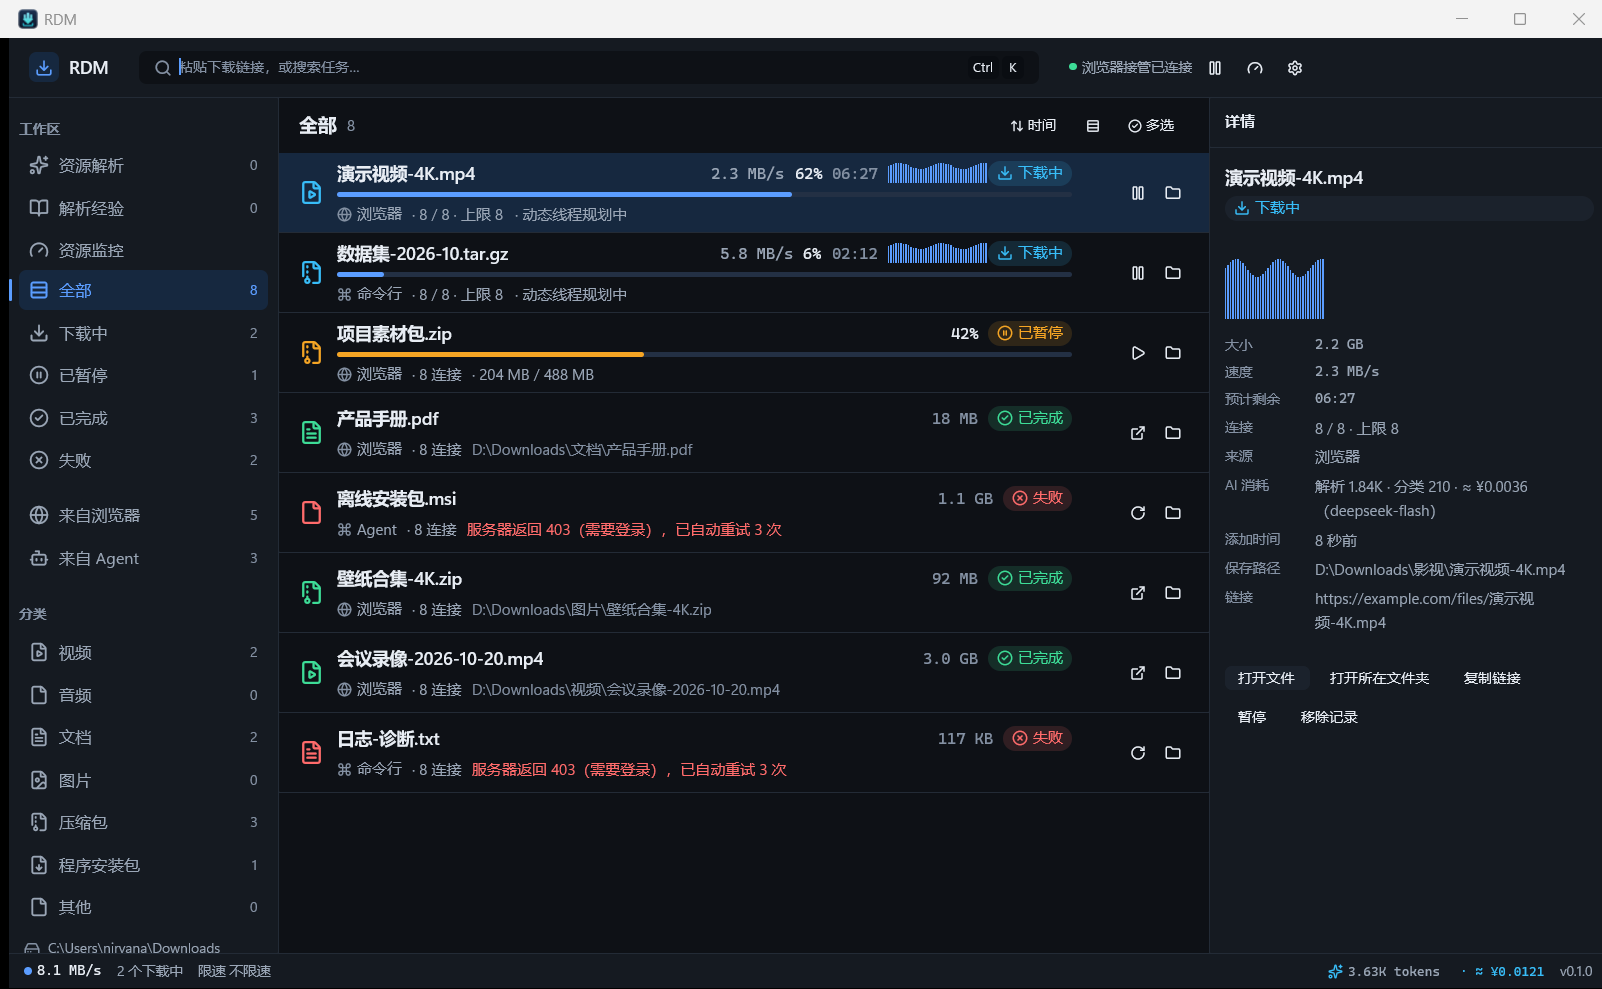
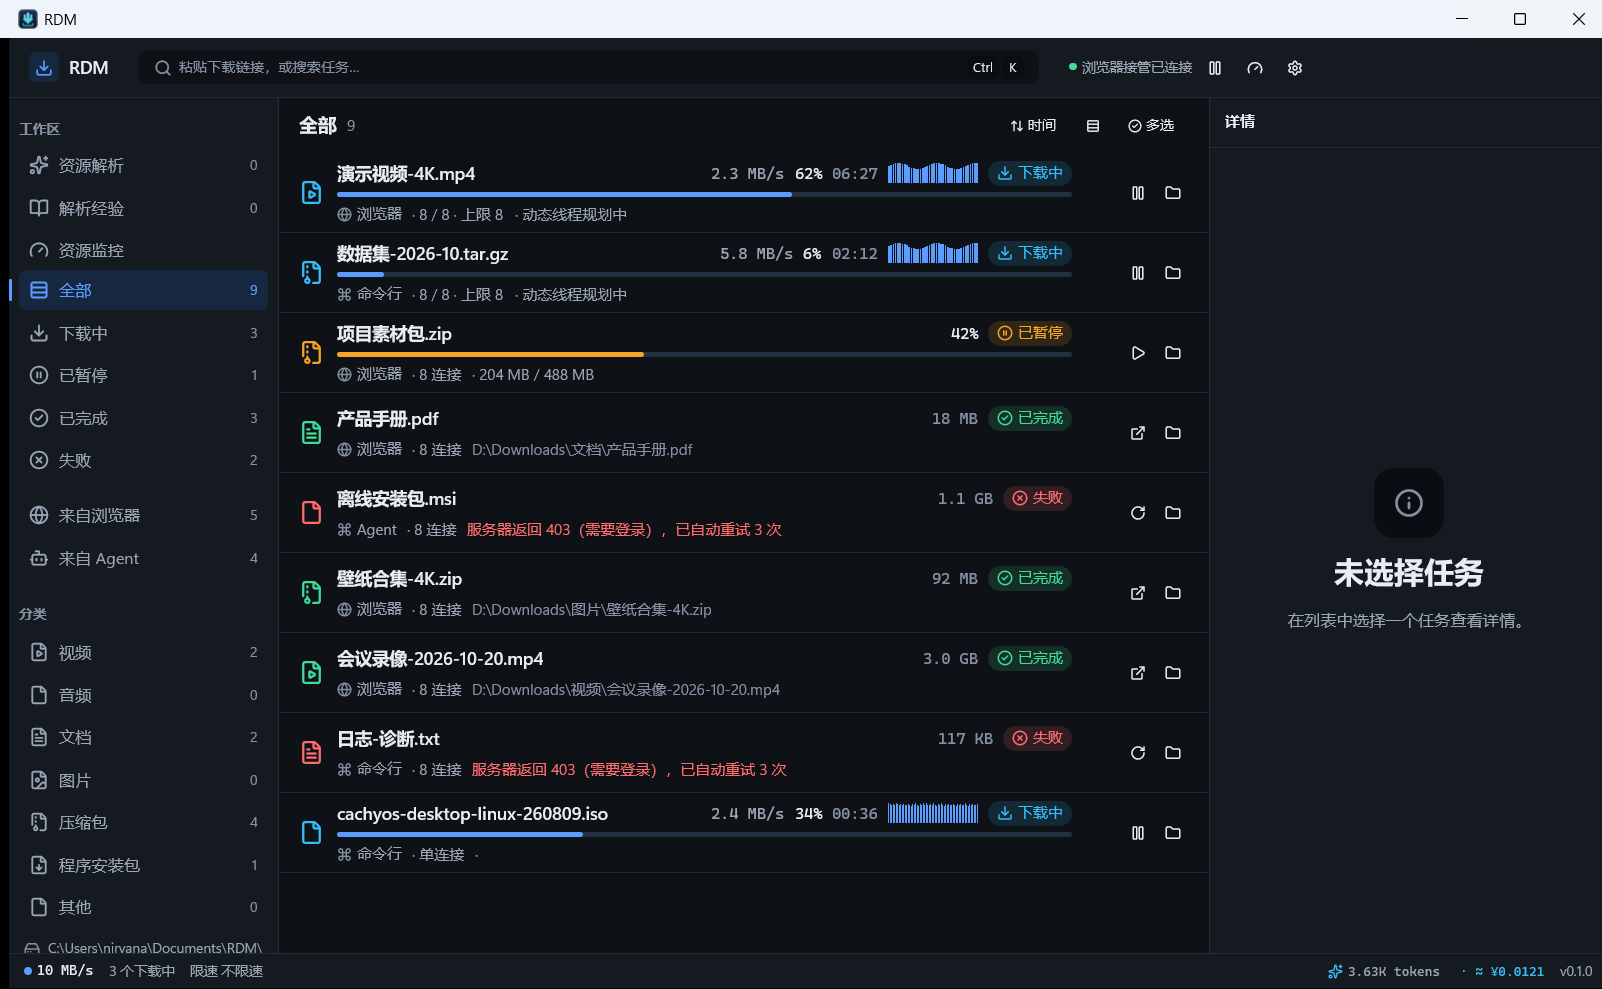
chore(release): v0.18.0 — source + README only

diff --git a/crates/rdm-gui/src/ui/widgets/mod.rs b/crates/rdm-gui/src/ui/widgets/mod.rs
@@ -6,8 +6,8 @@
 
 use gpui::prelude::*;
 use gpui::{
-    div, px, relative, AnyElement, App, ClickEvent, Hsla, IntoElement, ParentElement, SharedString,
-    Styled, Window,
+    canvas, div, fill, point, px, relative, size, AnyElement, App, ClickEvent, Hsla, IntoElement,
+    ParentElement, SharedString, Styled, Window,
 };
 use gpui_component::button::{Button, ButtonVariants};
 use gpui_component::v_flex;
@@ -308,6 +308,124 @@ pub enum Severity {
     Success,
     Warning,
     Danger,
+}
+
+/// 速度迷你曲线（canvas 柱状，自适应画布宽度）。
+///
+/// 新版下载中枢行、旧版界面行与详情面板共用。绘制区域**严格限制**在
+/// `width × height` 内：历史采样多时同步收缩柱宽与间隙，而不是把每根柱子
+/// 都撑到至少 1px 再按 1px 间隙排布——历史 bug 里 60 个采样需要
+/// `60 * 1 + 59 * 1 = 119px`，72px 的画布会把曲线画到右侧「下载中」状态徽章上
+/// （见 2026-10-24 用户截图：曲线溢出覆盖「下载中」Pill）。
+pub fn sparkline(history: Vec<f64>, color: Hsla, width: f32, height: f32) -> AnyElement {
+    canvas(
+        |_, _, _| (),
+        move |bounds, _, window, _| paint_sparkline(&history, bounds, window, color),
+    )
+    .w(px(width))
+    .h(px(height))
+    .into_any_element()
+}
+
+/// 在 canvas 边界内绘制速度柱状曲线（右边界逐柱裁剪，容忍浮点累计误差）。
+fn paint_sparkline(
+    history: &[f64],
+    bounds: gpui::Bounds<gpui::Pixels>,
+    window: &mut Window,
+    color: Hsla,
+) {
+    if history.is_empty() {
+        return;
+    }
+    let width: f32 = bounds.size.width.into();
+    let height: f32 = bounds.size.height.into();
+    if width <= 0.0 || height <= 0.0 {
+        return;
+    }
+    let origin_x: f32 = bounds.origin.x.into();
+    let origin_y: f32 = bounds.origin.y.into();
+    let end_x = origin_x + width;
+    let max = history.iter().copied().fold(0.0_f64, f64::max).max(1.0);
+    let (gap, bar_width) = sparkline_bar_layout(width, history.len());
+    for (index, value) in history.iter().enumerate() {
+        let x = origin_x + index as f32 * (bar_width + gap);
+        if x >= end_x {
+            continue;
+        }
+        let clamped_width = (end_x - x).min(bar_width);
+        if clamped_width <= 0.0 {
+            continue;
+        }
+        let bar_height = (height * (*value as f32 / max as f32)).clamp(1.0, height);
+        window.paint_quad(fill(
+            gpui::Bounds::new(
+                point(px(x), px(origin_y + height - bar_height)),
+                size(px(clamped_width), px(bar_height)),
+            ),
+            color,
+        ));
+    }
+}
+
+/// 柱状曲线布局：返回 `(间隙, 柱宽)`，并保证
+/// `count * 柱宽 + (count - 1) * 间隙 <= width`。
+///
+/// 间隙最多 1px 且最多占画布宽度的 25%，样本数越多间隙越小；柱宽由剩余
+/// 宽度均分，从而让 60 个采样也能排进 72px 的迷你曲线画布。
+pub fn sparkline_bar_layout(width: f32, count: usize) -> (f32, f32) {
+    let width = width.max(0.0);
+    if count == 0 || width <= 0.0 {
+        return (0.0, 0.0);
+    }
+    let count_f = count as f32;
+    let gap = if count > 1 {
+        (width * 0.25 / (count_f - 1.0)).clamp(0.0, 1.0)
+    } else {
+        0.0
+    };
+    let bar_width = ((width - gap * (count_f - 1.0)) / count_f).max(0.0);
+    (gap, bar_width)
+}
+
+#[cfg(test)]
+mod sparkline_layout_tests {
+    use super::sparkline_bar_layout;
+
+    /// 回归：60 个采样（每分钟累计满历史）必须完整排进 72px 行内迷你曲线，
+    /// 不允许超出画布（历史 bug：1px 柱宽 + 1px 间隙画成 119px，溢出覆盖状态徽章）。
+    #[test]
+    fn sixty_samples_fit_the_row_sparkline_width() {
+        let (gap, bar_width) = sparkline_bar_layout(72.0, 60);
+        let painted = 60.0 * bar_width + 59.0 * gap;
+        assert!(
+            painted <= 72.0 + 0.01,
+            "60 个采样绘制宽度 {painted}px 超出 72px 画布（柱宽 {bar_width}px，间隙 {gap}px）"
+        );
+    }
+
+    /// 任意样本数/画布宽度下，布局总宽都不超过画布宽度。
+    #[test]
+    fn layout_never_exceeds_canvas_width() {
+        for width in [1.0_f32, 10.0, 48.0, 72.0, 120.0] {
+            for count in 1..=200_usize {
+                let (gap, bar_width) = sparkline_bar_layout(width, count);
+                assert!(gap >= 0.0 && bar_width >= 0.0, "负尺寸：count={count}");
+                let painted = count as f32 * bar_width + (count - 1) as f32 * gap;
+                assert!(
+                    painted <= width + 0.01,
+                    "count={count} width={width}: painted={painted}"
+                );
+            }
+        }
+    }
+
+    /// 罕见样本数下柱状图仍可绘制，不会全部塌缩为 0。
+    #[test]
+    fn single_sample_fills_the_whole_width() {
+        let (gap, bar_width) = sparkline_bar_layout(72.0, 1);
+        assert_eq!(gap, 0.0);
+        assert!((bar_width - 72.0).abs() < f32::EPSILON);
+    }
 }
 
 /// 把长文件名截断成「前 N…后 M」并保留扩展名（04 §4.2）。

diff --git a/crates/rdm-gui/src/views/app.rs b/crates/rdm-gui/src/views/app.rs
@@ -13,9 +13,8 @@ use std::time::{Duration, Instant};
 
 use gpui::prelude::*;
 use gpui::{
-    canvas, div, fill, point, px, size, AnyElement, App, Bounds, ClickEvent, Context, ElementId,
-    Entity, Focusable, Hsla, IntoElement, MouseButton, ParentElement, Render, ScrollHandle, Styled,
-    Subscription, Window,
+    div, px, size, AnyElement, App, ClickEvent, Context, ElementId, Entity, Focusable, Hsla,
+    IntoElement, MouseButton, ParentElement, Render, ScrollHandle, Styled, Subscription, Window,
 };
 use gpui_component::button::{Button, ButtonVariant, ButtonVariants};
 use gpui_component::dialog::DialogButtonProps;
@@ -49,8 +48,8 @@ use crate::ui::icons::RdmIcon;
 use crate::ui::theme::{self, tokens, ThemeTokens};
 use crate::ui::widgets::{
     divider, ellipsize_file_name, empty_state, icon_button, info_banner, meta_text, mono_text,
-    nav_item, progress_bar, progress_bar_colored, section_label, soft_tag, status_dot, status_pill,
-    status_text, Severity,
+    nav_item, progress_bar, progress_bar_colored, section_label, soft_tag, sparkline, status_dot,
+    status_pill, status_text, Severity,
 };
 use crate::views::actions::{
     ActivateFocused, ClearCompleted, ClearSearch, ClearSelection, CloseLayer, CloseSettings,
@@ -7077,37 +7076,11 @@ pub(crate) fn filter_and_sort(
     indexes
 }
 
-/// 速度迷你曲线（canvas 柱状，最近 60 个采样；与旧版行内曲线同一实现思路）。
+/// 速度迷你曲线（canvas 柱状，最近 60 个采样；绘制限制在 72×height 画布内，
+/// 采样满历史时不会溢出覆盖右侧状态徽章，详见 [`sparkline`]）。
 fn render_sparkline(item: &DownloadItem, color: Hsla, height: f32) -> AnyElement {
     let history: Vec<f64> = item.speed_history.iter().copied().collect();
-    canvas(
-        |_, _, _| (),
-        move |bounds, _, window, _| {
-            if history.is_empty() {
-                return;
-            }
-            let max = history.iter().copied().fold(0.0_f64, f64::max).max(1.0);
-            let count = history.len() as f32;
-            let gap = 1.0_f32;
-            let width: f32 = bounds.size.width.into();
-            let h: f32 = bounds.size.height.into();
-            let origin_x: f32 = bounds.origin.x.into();
-            let origin_y: f32 = bounds.origin.y.into();
-            let bar_width = ((width - gap * (count - 1.0)) / count).max(1.0);
-            for (i, value) in history.iter().enumerate() {
-                let bar_height = (h * (*value as f32 / max as f32)).max(1.0);
-                let x = origin_x + i as f32 * (bar_width + gap);
-                let y = origin_y + h - bar_height;
-                window.paint_quad(fill(
-                    Bounds::new(point(px(x), px(y)), size(px(bar_width), px(bar_height))),
-                    color,
-                ));
-            }
-        },
-    )
-    .w(px(72.0))
-    .h(px(height))
-    .into_any_element()
+    sparkline(history, color, 72.0, height)
 }
 
 /// 相对时间（任务创建时间 → 「x 分钟前」）；避免引入 chrono 依赖。

diff --git a/crates/rdm-gui/src/app.rs b/crates/rdm-gui/src/app.rs
@@ -1913,36 +1913,14 @@ impl RdmApp {
             ));
         }
 
-        let history: Vec<f64> = item.speed_history.iter().copied().collect();
-        let sparkline_color = progress_color;
-        let sparkline = canvas(
-            |_, _, _| (),
-            move |bounds, _, window, _| {
-                if history.is_empty() {
-                    return;
-                }
-                let max = history.iter().copied().fold(0.0_f64, f64::max).max(1.0);
-                let count = history.len() as f32;
-                let gap = 1.0_f32;
-                let width: f32 = bounds.size.width.into();
-                let height: f32 = bounds.size.height.into();
-                let origin_x: f32 = bounds.origin.x.into();
-                let origin_y: f32 = bounds.origin.y.into();
-                let bar_width = ((width - gap * (count - 1.0)) / count).max(1.0);
-                for (i, value) in history.iter().enumerate() {
-                    let bar_height = (height * (*value as f32 / max as f32)).max(1.0);
-                    let x = origin_x + i as f32 * (bar_width + gap);
-                    let y = origin_y + height - bar_height;
-                    window.paint_quad(fill(
-                        Bounds::new(point(px(x), px(y)), size(px(bar_width), px(bar_height))),
-                        sparkline_color,
-                    ));
-                }
-            },
-        )
-        .w(px(72.))
-        .h(px(18.))
-        .into_any_element();
+        // 行内速度迷你曲线：交给共享 widget，绘制区域限制在 72×18 画布内
+        // （历史 bug：60 采样按 1px 柱宽 + 1px 间隙画成 119px，溢出覆盖右侧徽章）。
+        let sparkline = crate::ui::widgets::sparkline(
+            item.speed_history.iter().copied().collect(),
+            progress_color.into(),
+            72.0,
+            18.0,
+        );
 
         div()
             .flex()

diff --git a/README.md b/README.md
@@ -3,7 +3,7 @@
 纯 Rust 实现的多连接下载器：下载引擎 + **GPUI** 桌面端 + Firefox / Chrome 下载接管扩展
 + **CLI / MCP** agent 接口 + 可验证的链接解析运行时。不套壳 aria2、不依赖 Electron。
 
-![新版 RDM 安装版 GUI 真实运行截图（Windows 11，2026-10-23，下载中枢主窗口）](assets/readme/rdm-gui-new.png)
+![新版 RDM 安装版 GUI 真实运行截图（Windows 11，2026-10-24，下载中枢主窗口；下载中任务行显示修复后的速度曲线）](assets/readme/rdm-gui-new.png)
 
 > 截图来自实际安装版 `rdm-gui.exe` 的真实运行窗口（非设计稿/旧版本截图）。
 
